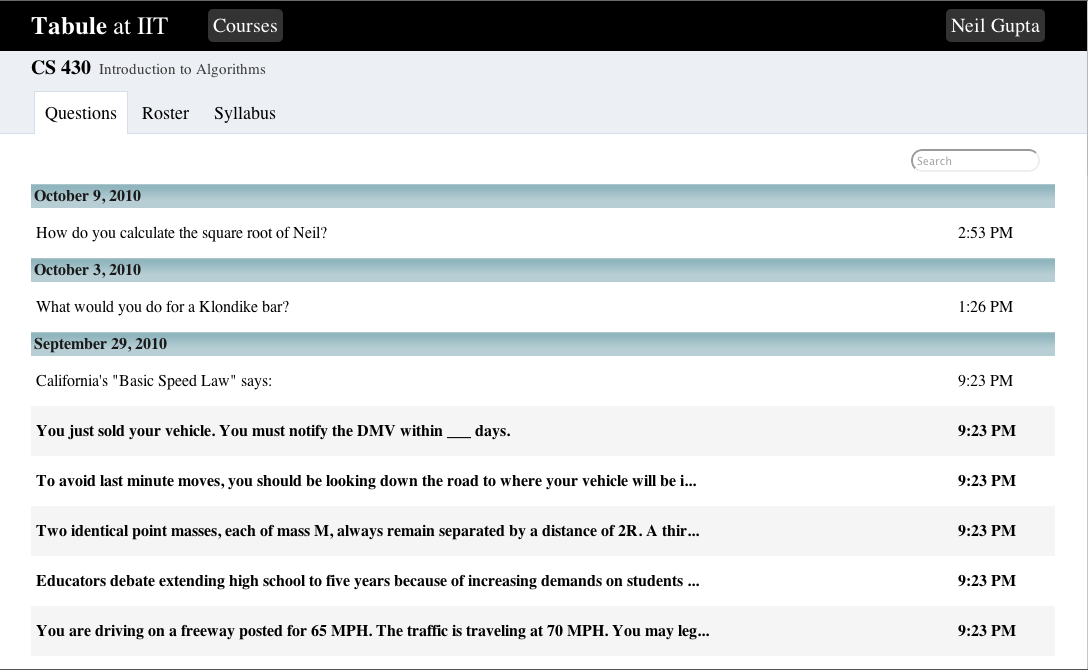
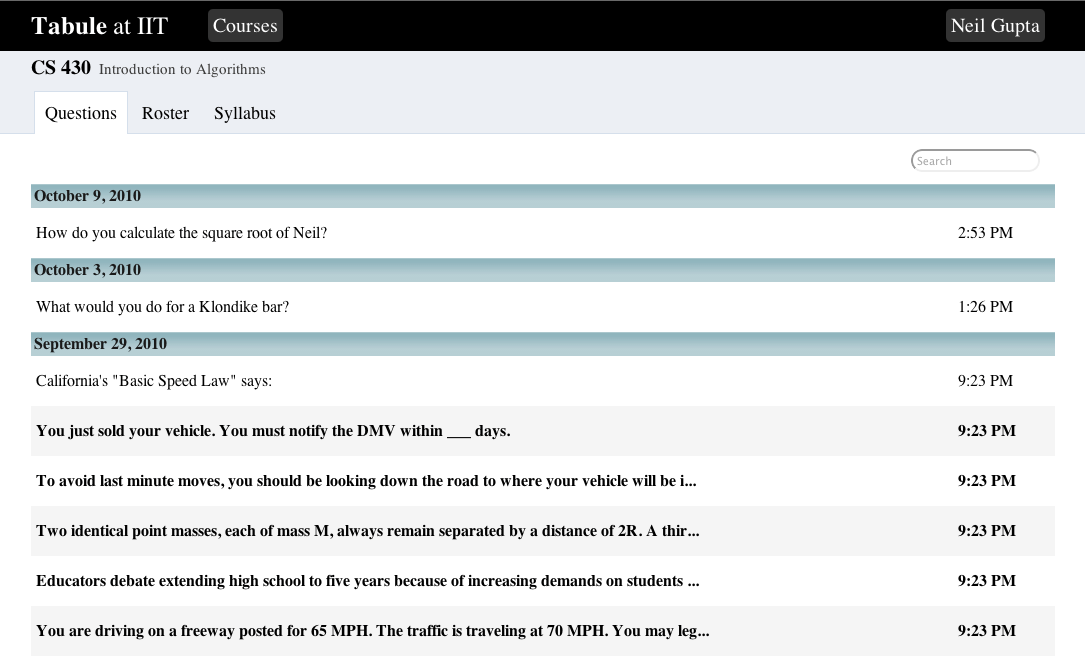
Compress image sizes

diff --git a/work/tabule.md b/work/tabule.md
@@ -37,7 +37,7 @@ The next iteration added the ability for students to ask questions directly from
 
 In addition to the new student-facing features, I also redesigned the quizzing workflow for teachers. I created a card-based system that was designed to be as easy as [Pivotal Tracker](http://pivotaltracker.com) or [Trello](http://trello.com). Teachers created quiz cards and tagged them for easy searching. Before each class, they dragged the relevant questions into the queue and then asked them during class.
 
-[![Tabule v2 for Students](/post_files/work/tabule/iteration2_teacher.png)](/post_files/work/tabule/iteration2_teacher.png)
+[![Tabule v2 for Students](/post_files/work/tabule/iteration2_teacher.jpg)](/post_files/work/tabule/iteration2_teacher.jpg)
 
 <p class="caption">The teacher interface, June 2011.</p>
 
@@ -49,7 +49,7 @@ The third iteration dropped the note-taking functionality, and doubled down on a
 > 
 > *- Professor Matt Bauer, IIT CS Department*
 
-[![Tabule v3](/post_files/work/tabule/iteration3.png)](/post_files/work/tabule/iteration3.png)
+[![Tabule v3](/post_files/work/tabule/iteration3.jpg)](/post_files/work/tabule/iteration3.jpg)
 
 <p class="caption">Tabule, January 2012.</p>
 
@@ -103,25 +103,17 @@ Of course, designing the interface to be intuitive turned out to be harder than 
 
 However, it was not immediately clear what to do with the single text input. Students would enter the assignment title and then get confused how to enter the due date. I changed the text field to look like a sticky note instead with an example assignment as a placeholder to guide users.
 
-<a href="/post_files/work/tabule/12_add.png"><img class="img320" alt="Tabule for iPhone v1.2" src="/post_files/work/tabule/12_add.png" /></a>
+<a href="/post_files/work/tabule/12_add.jpg"><img class="img320" alt="Tabule for iPhone v1.2" src="/post_files/work/tabule/12_add.jpg" /></a>
 
 <p class="caption">Adding Assignments in Tabule v1.2, August 2013.</p>
 
 More students were now able to figure out what to do with the sticky note, but it wasn't perfect. To make the input even more intuitive, I removed the live preview and instead showed the three components that make up an assignment: course, title, and date. As the user enters their note, each of the components is filled in. If one of the components is missing, it turns red to catch the user's attention. Users can then either add more text to the sticky note, or tap one of the components to use a task-specific interface. I also changed the yellow background to white in order to match iOS 7's flat, less skeuomorphic aesthetic.
 
-<a href="/post_files/work/tabule/20_add.png"><img class="img320" alt="Tabule for iPhone v2.0" src="/post_files/work/tabule/20_add.png" /></a>
+[![Adding Assignments](/post_files/work/tabule/add_assignment_process.png)](/post_files/work/tabule/add_assignment_process.png)
 
-<p class="caption">Adding Assignments in Tabule v2.0, January 2014.</p>
+<p class="caption">Improved flow for when user forgets to write a due date.</p>
 
-<a href="/post_files/work/tabule/20_add_missing_date.png"><img class="img320" alt="Tabule for iPhone v2.0" src="/post_files/work/tabule/20_add_missing_date.png" /></a>
-
-<p class="caption">User has not entered a due date for this assignment.</p>
-
-<a href="/post_files/work/tabule/20_add_date_picker.png"><img class="img320" alt="Tabule for iPhone v2.0" src="/post_files/work/tabule/20_add_date_picker.png" /></a>
-
-<p class="caption">Tapping the due date box shows a date picker.</p>
-
-Tapping the date box shows a date picker for the due date and tapping the course box shows a list of courses the student is currently enrolled in. This interface has been very effective at helping students add their assignments as soon as their assigned.
+Tapping the date box shows a date picker and tapping the course box shows a list of courses the student is currently enrolled in. This interface has been very effective at helping students add their assignments as soon as their assigned.
 
 ### Viewing Assignments
 
@@ -145,7 +137,7 @@ As mentioned above, students only care about upcoming assignments, so showing al
 
 The algorithm worked on a point-based system, so I designed an "Easy" to "Hard" scale to set the difficulty of each assignment.
 
-<a href="/post_files/work/tabule/difficulty.png"><img class="img320" alt="Setting difficulty" src="/post_files/work/tabule/difficulty.png" /></a>
+<a href="/post_files/work/tabule/difficulty.jpg"><img class="img320" alt="Setting difficulty" src="/post_files/work/tabule/difficulty.jpg" /></a>
 
 <p class="caption">Mockup of setting difficulty when adding assignments.</p>
 
